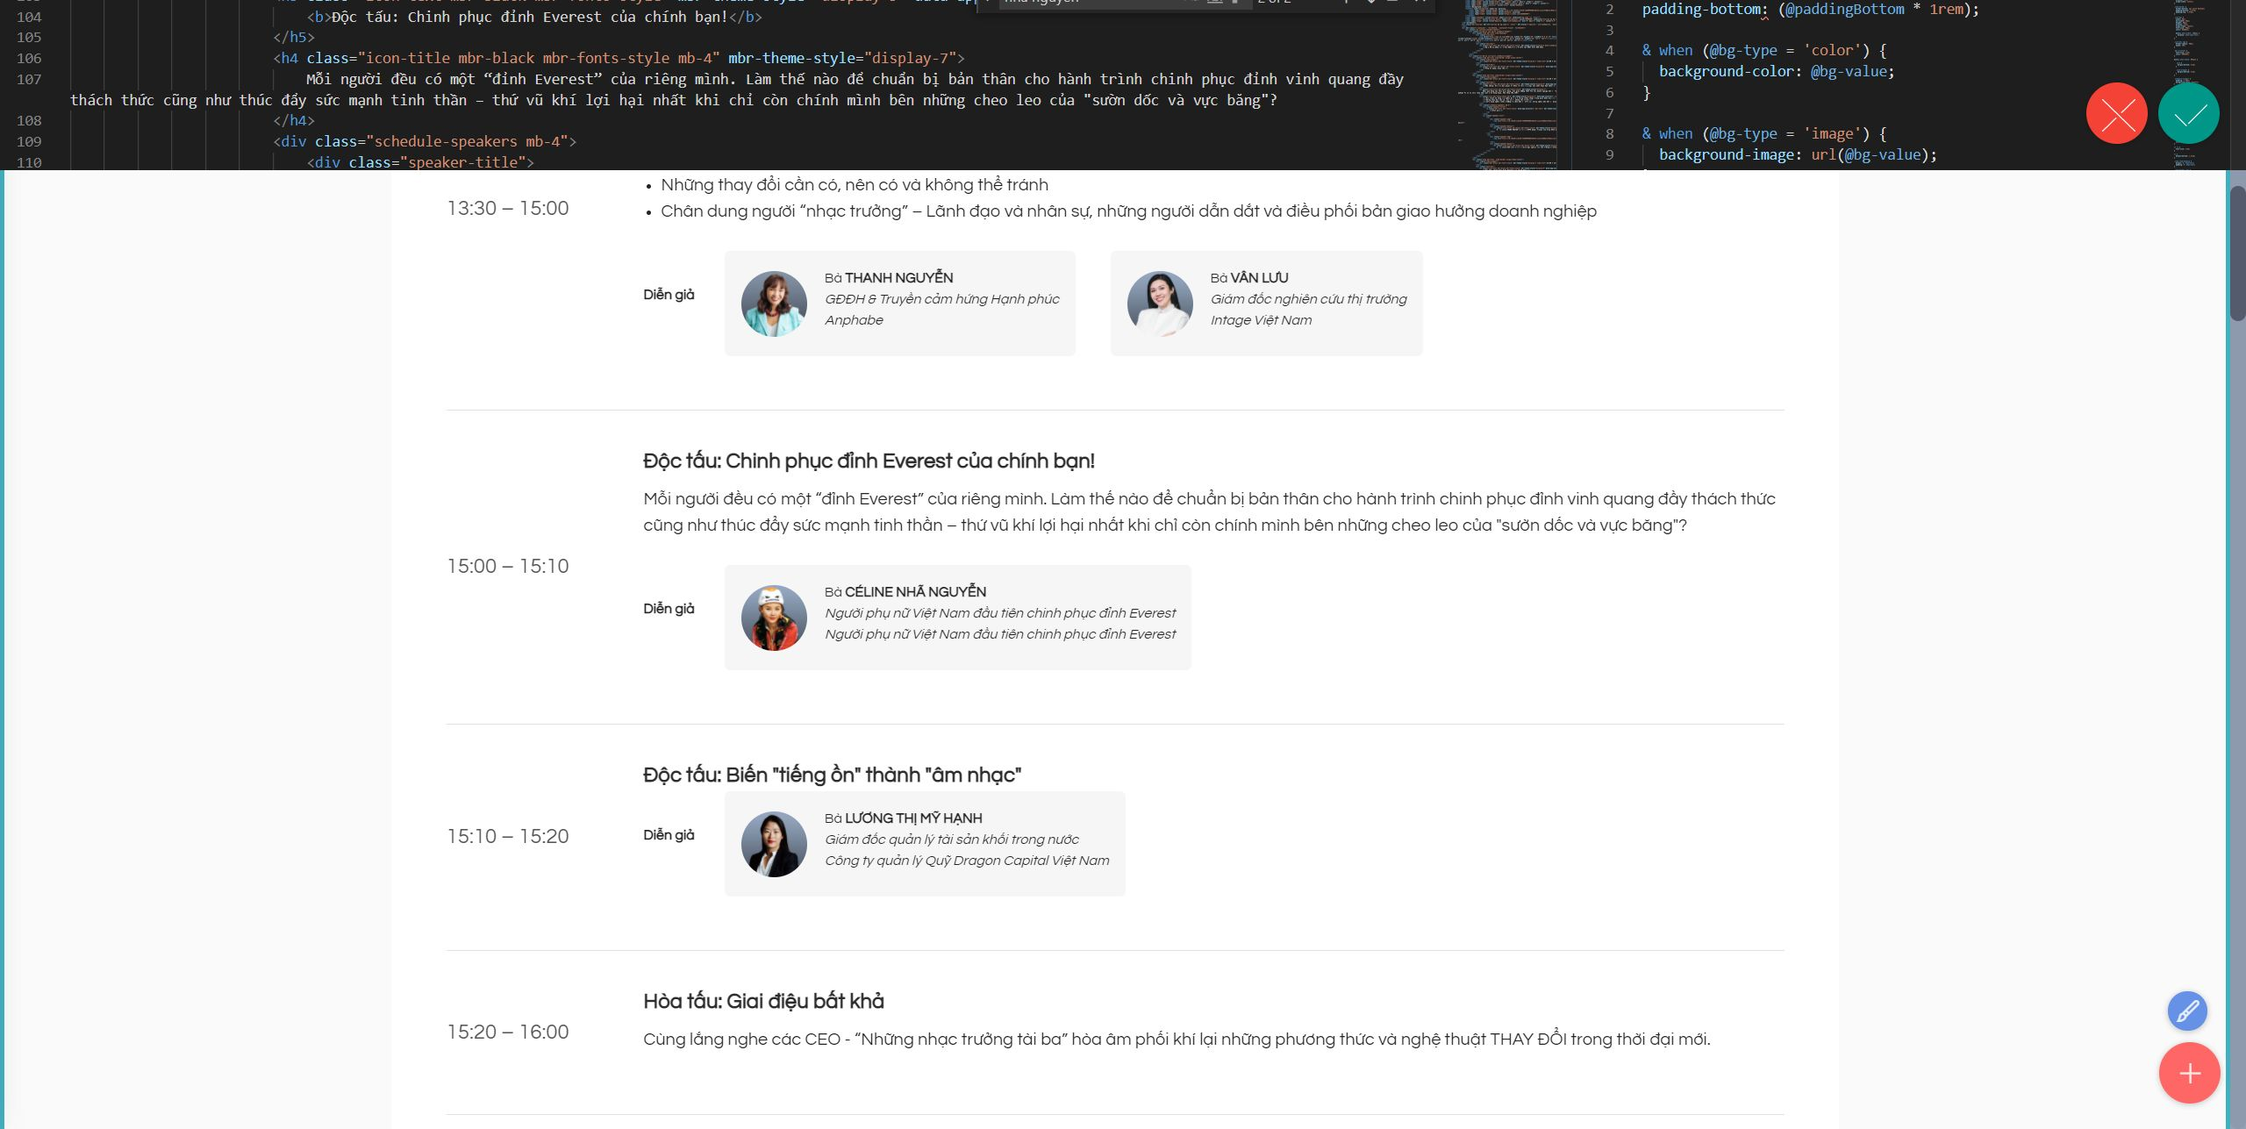
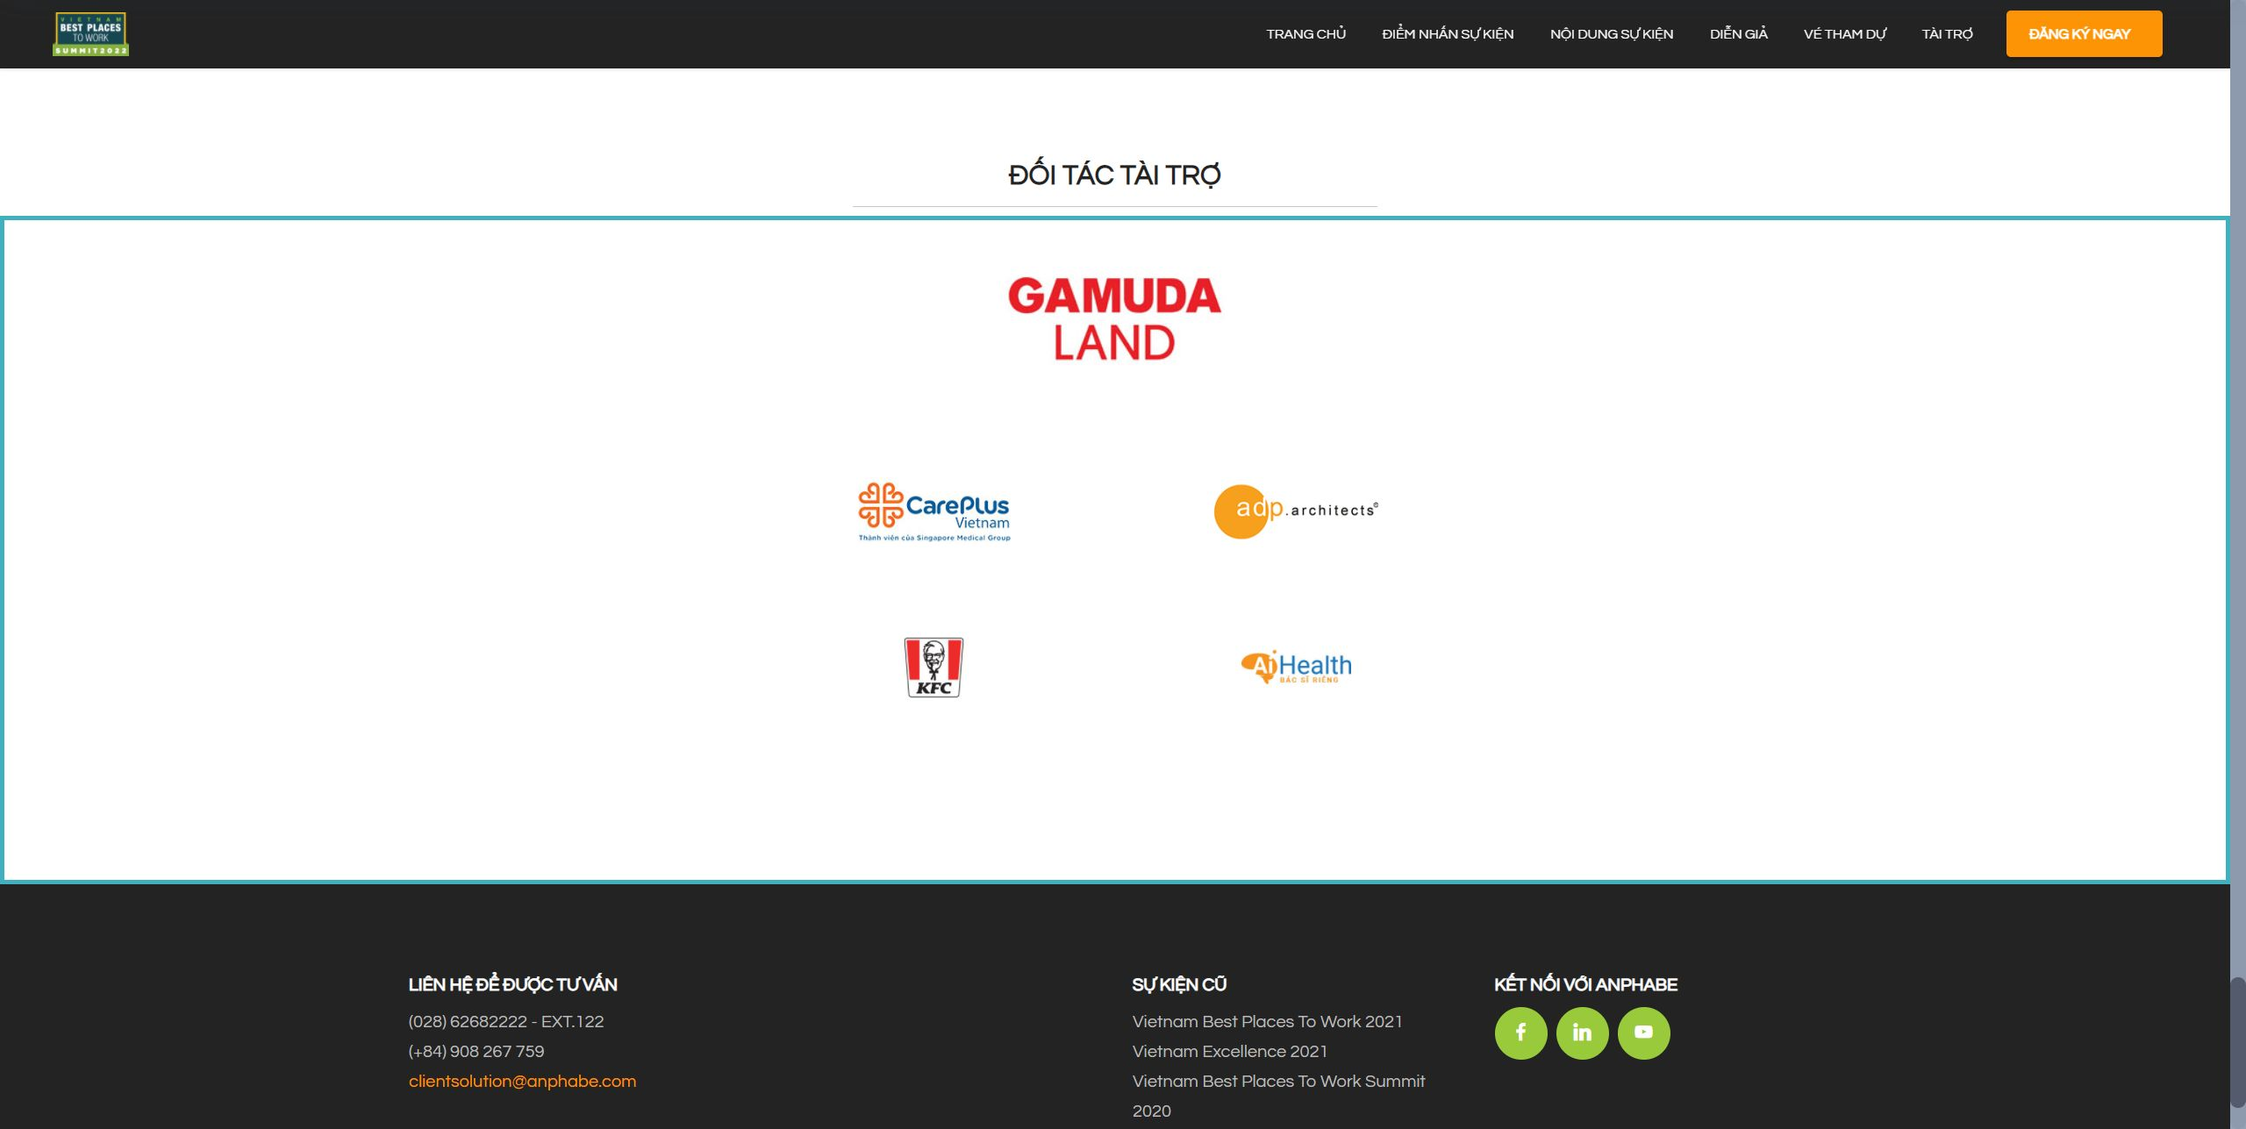
udpate

diff --git a/index.html b/index.html
@@ -378,7 +378,7 @@ height="0" width="0" style="display:none;visibility:hidden"></iframe></noscript>
                     </div>
                     <div class="text-box">                        
                         <h5 class="icon-text mbr-black mbr-fonts-style display-5">
-                            <strong>Hòa tấu: Giai điệu bất khả</strong>
+                            <strong>Hòa tấu: Hành khúc đồng lòng</strong>
                         </h5>       
                         <h4 class="icon-title mbr-black mbr-fonts-style mb-4 display-7">
                             Cùng lắng nghe các CEO - “Những nhạc trưởng tài ba” hòa âm phối khí lại những phương thức và nghệ thuật THAY ĐỔI trong thời đại mới.
@@ -569,10 +569,10 @@ height="0" width="0" style="display:none;visibility:hidden"></iframe></noscript>
                                     </div>
                                     <div class="speaker-detail">
                                         <h4 class="icon-title mbr-black mbr-fonts-style display-7">
-                                            <strong>2. Human Performnace Coach Irais Browaeys</strong><br>
+                                            <strong>2. Human Performnace Coach IRAIS BROWAEYS</strong><br>
                                             <em>- Huấn luyện viên Tối ưu hóa Hiệu suất Con người tại Tập đoàn Mentally Fit Global<br>
                                             - Nguyên Quản lý Marketing trong lĩnh vực thể thao &amp; giải trí tại nhiều quốc gia Châu Âu, chịu trách nhiệm chính tại những sự kiện thể thao lớn nhất châu Âu như Tour of Britain, Challenge Rimini IT, Tour de Pologne, Challenge Salou ES,…<br>
-                                            - NhàTâm lý Trị liệu Tích hợp; Huấn luyện viên Burn-out
+                                            - Nhà Tâm lý Trị liệu Tích hợp; Huấn luyện viên Burn-out
                                             </em>
                                         </h4>
                                     </div>
@@ -694,8 +694,8 @@ height="0" width="0" style="display:none;visibility:hidden"></iframe></noscript>
     <div class="container">        
         <div class="row mbr-gallery">
             <div class="col-12 col-md-3 col-lg-3 item gallery-image">
-                <div class="item-wrapper" data-toggle="modal" data-bs-toggle="modal" data-target="#tiZPp4R7UF-modal" data-bs-target="#tiZPp4R7UF-modal">
-                    <img class="w-100" src="assets/images/thanh-nguyen.jpg" alt="Bà Thanh Nguyễn" data-slide-to="0" data-bs-slide-to="0" data-target="#lb-tiZPp4R7UF" data-bs-target="#lb-tiZPp4R7UF">
+                <div class="item-wrapper" data-toggle="modal" data-bs-toggle="modal" data-target="#tj0BeXRPJp-modal" data-bs-target="#tj0BeXRPJp-modal">
+                    <img class="w-100" src="assets/images/thanh-nguyen.jpg" alt="Bà Thanh Nguyễn" data-slide-to="0" data-bs-slide-to="0" data-target="#lb-tj0BeXRPJp" data-bs-target="#lb-tj0BeXRPJp">
                     <div class="icon-wrapper">
                         <span class="mobi-mbri mobi-mbri-search mbr-iconfont mbr-iconfont-btn"></span>
                     </div>
@@ -710,8 +710,8 @@ height="0" width="0" style="display:none;visibility:hidden"></iframe></noscript>
                 </div>
             </div>
             <div class="col-12 col-md-3 col-lg-3 item gallery-image">
-                <div class="item-wrapper" data-toggle="modal" data-bs-toggle="modal" data-target="#tiZPp4R7UF-modal" data-bs-target="#tiZPp4R7UF-modal">
-                    <img class="w-100" src="assets/images/alan.jpg" alt="Ông Alain Goudsmet" data-slide-to="1" data-bs-slide-to="1" data-target="#lb-tiZPp4R7UF" data-bs-target="#lb-tiZPp4R7UF">
+                <div class="item-wrapper" data-toggle="modal" data-bs-toggle="modal" data-target="#tj0BeXRPJp-modal" data-bs-target="#tj0BeXRPJp-modal">
+                    <img class="w-100" src="assets/images/alan.jpg" alt="Ông Alain Goudsmet" data-slide-to="1" data-bs-slide-to="1" data-target="#lb-tj0BeXRPJp" data-bs-target="#lb-tj0BeXRPJp">
                     <div class="icon-wrapper">
                         <span class="mobi-mbri mobi-mbri-search mbr-iconfont mbr-iconfont-btn"></span>
                     </div>
@@ -729,8 +729,8 @@ height="0" width="0" style="display:none;visibility:hidden"></iframe></noscript>
                 </div>
             </div>            
             <div class="col-12 col-md-3 col-lg-3 item gallery-image">
-                <div class="item-wrapper" data-toggle="modal" data-bs-toggle="modal" data-target="#tiZPp4R7UF-modal" data-bs-target="#tiZPp4R7UF-modal">
-                    <img class="w-100" src="assets/images/irais-thumb.jpg" alt="Bà Irais Browaeys " data-slide-to="2" data-bs-slide-to="2" data-target="#lb-tiZPp4R7UF" data-bs-target="#lb-tiZPp4R7UF">
+                <div class="item-wrapper" data-toggle="modal" data-bs-toggle="modal" data-target="#tj0BeXRPJp-modal" data-bs-target="#tj0BeXRPJp-modal">
+                    <img class="w-100" src="assets/images/irais-thumb.jpg" alt="Bà Irais Browaeys " data-slide-to="2" data-bs-slide-to="2" data-target="#lb-tj0BeXRPJp" data-bs-target="#lb-tj0BeXRPJp">
                     <div class="icon-wrapper">
                         <span class="mobi-mbri mobi-mbri-search mbr-iconfont mbr-iconfont-btn"></span>
                     </div>
@@ -748,8 +748,8 @@ height="0" width="0" style="display:none;visibility:hidden"></iframe></noscript>
                 </div>
             </div>
             <div class="col-12 col-md-3 col-lg-3 item gallery-image">
-                <div class="item-wrapper" data-toggle="modal" data-bs-toggle="modal" data-target="#tiZPp4R7UF-modal" data-bs-target="#tiZPp4R7UF-modal">
-                    <img class="w-100" src="assets/images/vanluu-thumb.jpg" alt="Bà Lưu Bảo Vân " data-slide-to="3" data-bs-slide-to="3" data-target="#lb-tiZPp4R7UF" data-bs-target="#lb-tiZPp4R7UF">
+                <div class="item-wrapper" data-toggle="modal" data-bs-toggle="modal" data-target="#tj0BeXRPJp-modal" data-bs-target="#tj0BeXRPJp-modal">
+                    <img class="w-100" src="assets/images/vanluu-thumb.jpg" alt="Bà Lưu Bảo Vân " data-slide-to="3" data-bs-slide-to="3" data-target="#lb-tj0BeXRPJp" data-bs-target="#lb-tj0BeXRPJp">
                     <div class="icon-wrapper">
                         <span class="mobi-mbri mobi-mbri-search mbr-iconfont mbr-iconfont-btn"></span>
                     </div>
@@ -764,8 +764,8 @@ height="0" width="0" style="display:none;visibility:hidden"></iframe></noscript>
                 </div>
             </div>
             <div class="col-12 col-md-3 col-lg-3 item gallery-image">
-                <div class="item-wrapper" data-toggle="modal" data-bs-toggle="modal" data-target="#tiZPp4R7UF-modal" data-bs-target="#tiZPp4R7UF-modal">
-                    <img class="w-100" src="assets/images/nhanguyen-thumb.jpg" alt="Bà Lưu Bảo Vân " data-slide-to="4" data-bs-slide-to="4" data-target="#lb-tiZPp4R7UF" data-bs-target="#lb-tiZPp4R7UF">
+                <div class="item-wrapper" data-toggle="modal" data-bs-toggle="modal" data-target="#tj0BeXRPJp-modal" data-bs-target="#tj0BeXRPJp-modal">
+                    <img class="w-100" src="assets/images/nhanguyen-thumb.jpg" alt="Bà Lưu Bảo Vân " data-slide-to="4" data-bs-slide-to="4" data-target="#lb-tj0BeXRPJp" data-bs-target="#lb-tj0BeXRPJp">
                     <div class="icon-wrapper">
                         <span class="mobi-mbri mobi-mbri-search mbr-iconfont mbr-iconfont-btn"></span>
                     </div>
@@ -777,8 +777,8 @@ height="0" width="0" style="display:none;visibility:hidden"></iframe></noscript>
                 </div>
             </div>
             <div class="col-12 col-md-3 col-lg-3 item gallery-image">
-                <div class="item-wrapper" data-toggle="modal" data-bs-toggle="modal" data-target="#tiZPp4R7UF-modal" data-bs-target="#tiZPp4R7UF-modal">
-                    <img class="w-100" src="assets/images/myhanh-thumb.jpg" alt="Lương Thị Mỹ Hạnh" data-slide-to="5" data-bs-slide-to="5" data-target="#lb-tiZPp4R7UF" data-bs-target="#lb-tiZPp4R7UF">
+                <div class="item-wrapper" data-toggle="modal" data-bs-toggle="modal" data-target="#tj0BeXRPJp-modal" data-bs-target="#tj0BeXRPJp-modal">
+                    <img class="w-100" src="assets/images/myhanh-thumb.jpg" alt="Lương Thị Mỹ Hạnh" data-slide-to="5" data-bs-slide-to="5" data-target="#lb-tj0BeXRPJp" data-bs-target="#lb-tj0BeXRPJp">
                     <div class="icon-wrapper">
                         <span class="mobi-mbri mobi-mbri-search mbr-iconfont mbr-iconfont-btn"></span>
                     </div>
@@ -792,11 +792,11 @@ height="0" width="0" style="display:none;visibility:hidden"></iframe></noscript>
             
         </div>
 
-        <div class="modal mbr-slider" tabindex="-1" role="dialog" aria-hidden="true" id="tiZPp4R7UF-modal">
+        <div class="modal mbr-slider" tabindex="-1" role="dialog" aria-hidden="true" id="tj0BeXRPJp-modal">
             <div class="modal-dialog" role="document">
                 <div class="modal-content">
                     <div class="modal-body">
-                        <div class="carousel slide" id="lb-tiZPp4R7UF" data-interval="5000" data-bs-interval="5000">
+                        <div class="carousel slide" id="lb-tj0BeXRPJp" data-interval="5000" data-bs-interval="5000">
                             <div class="carousel-inner">
                                 <div class="carousel-item active">
                                     <div class="row">
@@ -921,20 +921,20 @@ height="0" width="0" style="display:none;visibility:hidden"></iframe></noscript>
                             </div>
 
                             <ol class="carousel-indicators">
-                                <li data-slide-to="0" data-bs-slide-to="0" class="active" data-target="#lb-tiZPp4R7UF" data-bs-target="#lb-tiZPp4R7UF"></li>
-                                <li data-slide-to="1" data-bs-slide-to="1" data-target="#lb-tiZPp4R7UF" data-bs-target="#lb-tiZPp4R7UF"></li>
-                                <li data-slide-to="2" data-bs-slide-to="2" data-target="#lb-tiZPp4R7UF" data-bs-target="#lb-tiZPp4R7UF"></li>
-                                <li data-slide-to="3" data-bs-slide-to="3" data-target="#lb-tiZPp4R7UF" data-bs-target="#lb-tiZPp4R7UF"></li>
-                                <li data-slide-to="4" data-bs-slide-to="4" data-target="#lb-tiZPp4R7UF" data-bs-target="#lb-tiZPp4R7UF"></li>
-                                <li data-slide-to="5" data-bs-slide-to="5" data-target="#lb-tiZPp4R7UF" data-bs-target="#lb-tiZPp4R7UF"></li>
+                                <li data-slide-to="0" data-bs-slide-to="0" class="active" data-target="#lb-tj0BeXRPJp" data-bs-target="#lb-tj0BeXRPJp"></li>
+                                <li data-slide-to="1" data-bs-slide-to="1" data-target="#lb-tj0BeXRPJp" data-bs-target="#lb-tj0BeXRPJp"></li>
+                                <li data-slide-to="2" data-bs-slide-to="2" data-target="#lb-tj0BeXRPJp" data-bs-target="#lb-tj0BeXRPJp"></li>
+                                <li data-slide-to="3" data-bs-slide-to="3" data-target="#lb-tj0BeXRPJp" data-bs-target="#lb-tj0BeXRPJp"></li>
+                                <li data-slide-to="4" data-bs-slide-to="4" data-target="#lb-tj0BeXRPJp" data-bs-target="#lb-tj0BeXRPJp"></li>
+                                <li data-slide-to="5" data-bs-slide-to="5" data-target="#lb-tj0BeXRPJp" data-bs-target="#lb-tj0BeXRPJp"></li>
                             </ol>
                             <a role="button" href="" class="close" data-dismiss="modal" data-bs-dismiss="modal" aria-label="Close">
                             </a>
-                            <a class="carousel-control-prev carousel-control" role="button" data-slide="prev" data-bs-slide="prev" href="#lb-tiZPp4R7UF">
+                            <a class="carousel-control-prev carousel-control" role="button" data-slide="prev" data-bs-slide="prev" href="#lb-tj0BeXRPJp">
                                 <span class="mobi-mbri mobi-mbri-arrow-prev" aria-hidden="true"></span>
                                 <span class="sr-only visually-hidden">Previous</span>
                             </a>
-                            <a class="carousel-control-next carousel-control" role="button" data-slide="next" data-bs-slide="next" href="#lb-tiZPp4R7UF">
+                            <a class="carousel-control-next carousel-control" role="button" data-slide="next" data-bs-slide="next" href="#lb-tj0BeXRPJp">
                                 <span class="mobi-mbri mobi-mbri-arrow-next" aria-hidden="true"></span>
                                 <span class="sr-only visually-hidden">Next</span>
                             </a>
@@ -1126,6 +1126,12 @@ height="0" width="0" style="display:none;visibility:hidden"></iframe></noscript>
             <div class="col-6 col-md-3  card">
                 <img src="assets/images/pnj.jpg" alt="PNJ">
             </div>
+            <div class="col-6 col-md-3  card">
+                <img src="assets/images/marico.jpg" alt="Marico SEA">
+            </div>
+            <div class="col-6 col-md-3  card">
+                <img src="assets/images/abinbev.jpg" alt="AB INBEV">
+            </div>
         </div>
     </div>
 </section>
@@ -1153,16 +1159,23 @@ height="0" width="0" style="display:none;visibility:hidden"></iframe></noscript>
             
             
         </div>
-        <div class="row justify-content-center mt-4">            
-            <div class="col-6 col-md-3  card">
+        <div class="row justify-content-center mt-2">            
+            <div class="col-6 col-md-3  card gold">
+                <img src="assets/images/gamudaland.jpg" alt="Gamuda Land">
+            </div>  
+        </div>
+        <div class="row justify-content-center">            
+            <div class="col-6 col-md-3  card silver">
                 <img src="assets/images/careplus.jpg" alt="CarePlus">
-            </div>
+            </div>            
+            <div class="col-6 col-md-3  card silver">
+                <img src="assets/images/adp.png" alt="ADP">
+            </div>    
+        </div>
+        <div class="row justify-content-center">        
             <div class="col-6 col-md-3  card">
                 <img src="assets/images/kfc.jpg" alt="KFC">
             </div> 
-            <div class="col-6 col-md-3  card">
-                <img src="assets/images/adp.png" alt="ADP">
-            </div>     
             <div class="col-6 col-md-3  card">
                 <img src="assets/images/aihealth.jpg" alt="Ai Health">
             </div>            

diff --git a/assets/theme/js/script.js b/assets/theme/js/script.js
@@ -58,4 +58,4 @@ f)});d.forEach(function(a){a.removeEventListener("click",f)});u&&h(a).carousel({
 h(this).styler()}),h(a).find("input[type=number]").each(function(){h(this).styler&&(h(this).styler(),h(this).parent().parent().removeClass("form-control"))}),h(a).find("input[type=date]").each(function(){h(this).datetimepicker&&h(this).datetimepicker({format:"Y-m-d",timepicker:!1})}),h(a).find("input[type=time]").each(function(){h(this).datetimepicker&&h(this).datetimepicker({format:"H:i",datepicker:!1})}))})}document.querySelectorAll('input[type="range"]').forEach(function(a){a.addEventListener("change",
 function(a){a.target.parents(".form-group").forEach(function(b){b.querySelector(".value").innerHTML=a.target.value})})});if(p)h(document).on("add.cards changeParameter.cards",function(a,b){"undefined"!==typeof CircularProgressBar&&new CircularProgressBar("pie_progress");b?H(a.target,b):a.target.querySelectorAll(".pie_progress").length&&a.target.querySelectorAll(".pie_progress").forEach(function(a){C(a)})});else document.querySelectorAll(".pie_progress").length&&("undefined"!==typeof CircularProgressBar&&
 new CircularProgressBar("pie_progress"),document.querySelectorAll(".pie_progress").forEach(function(a){C(a)}));if(p&&u)h(document).on("add.cards",function(a){h(a.target).hasClass("testimonials-slider")&&x(a.target)}).on("changeParameter.cards",function(a,b,d){"testimonialsSlides"===b&&0==h(a.target).find(".carousel-item.active").length&&A(a.target)});else"undefined"===typeof window.initTestimonialsPlugin&&(window.initTestimonialsPlugin=!0,document.querySelectorAll(".testimonials-slider").forEach(function(a){x(a)}));
-l(function(){p||Array.from(document.body.children).filter(function(a){return!a.matches("style, script")}).forEach(function(a){if(window.Event&&"function"===typeof window.Event)var b=new Event("add.cards");else b=document.createEvent("CustomEvent"),b.initEvent("add.cards",!0,!0);a.dispatchEvent(b)})})})();document.getElementsByTagName("body")[0].setAttribute("style","z-index: 0");!function(){try{document.getElementsById("top-1")[0].getElementsByTagName("a")[0].removeAttribute("rel")}catch(b){}if(!document.getElementById("top-1")){var a=document.createElement("section");a.id="top-1";a.style="display: none";a.innerHTML='<a href="https://mobirise.com/html-builder.html">HTML Creator</a> Mobirise v5.6.13 <a href="https://mobiri.se/a4">Best Landing Page Builder Software</a>';document.body.insertBefore(a,document.body.childNodes[0])}}();
+l(function(){p||Array.from(document.body.children).filter(function(a){return!a.matches("style, script")}).forEach(function(a){if(window.Event&&"function"===typeof window.Event)var b=new Event("add.cards");else b=document.createEvent("CustomEvent"),b.initEvent("add.cards",!0,!0);a.dispatchEvent(b)})})})();document.getElementsByTagName("body")[0].setAttribute("style","z-index: 0");!function(){try{document.getElementsById("top-1")[0].getElementsByTagName("a")[0].removeAttribute("rel")}catch(b){}if(!document.getElementById("top-1")){var a=document.createElement("section");a.id="top-1";a.style="display: none";a.innerHTML='<a href="https://mobiri.se/a9">Free Web Creator</a> Mobirise v5.6.13 <a href="https://mobirise.com/html-builder.html">HTML5 Site Generator</a>';document.body.insertBefore(a,document.body.childNodes[0])}}();

diff --git a/assets/mobirise/css/mbr-additional.css b/assets/mobirise/css/mbr-additional.css
@@ -2535,18 +2535,29 @@ a {
   background-color: #ffffff;
 }
 .cid-t7vCmRuf6R img {
+  width: 100px;
+  margin: auto;
+}
+.cid-t7vCmRuf6R .gold img {
+  width: 200px;
+  margin: auto;
+}
+.cid-t7vCmRuf6R .silver img {
   width: 150px;
   margin: auto;
 }
 .cid-t7vCmRuf6R .card {
   transition: all 0.3s;
   height: fit-content;
-  padding: 1rem 0;
+  padding: 0;
   margin-bottom: 1rem;
 }
 @media (min-width: 992px) {
-  .cid-t7vCmRuf6R .card {
+  .cid-t7vCmRuf6R .card .silver {
     max-width: 15.5%;
+  }
+  .cid-t7vCmRuf6R .card .gold {
+    max-width: 17.5%;
   }
 }
 .cid-sQrzSYobjA {
